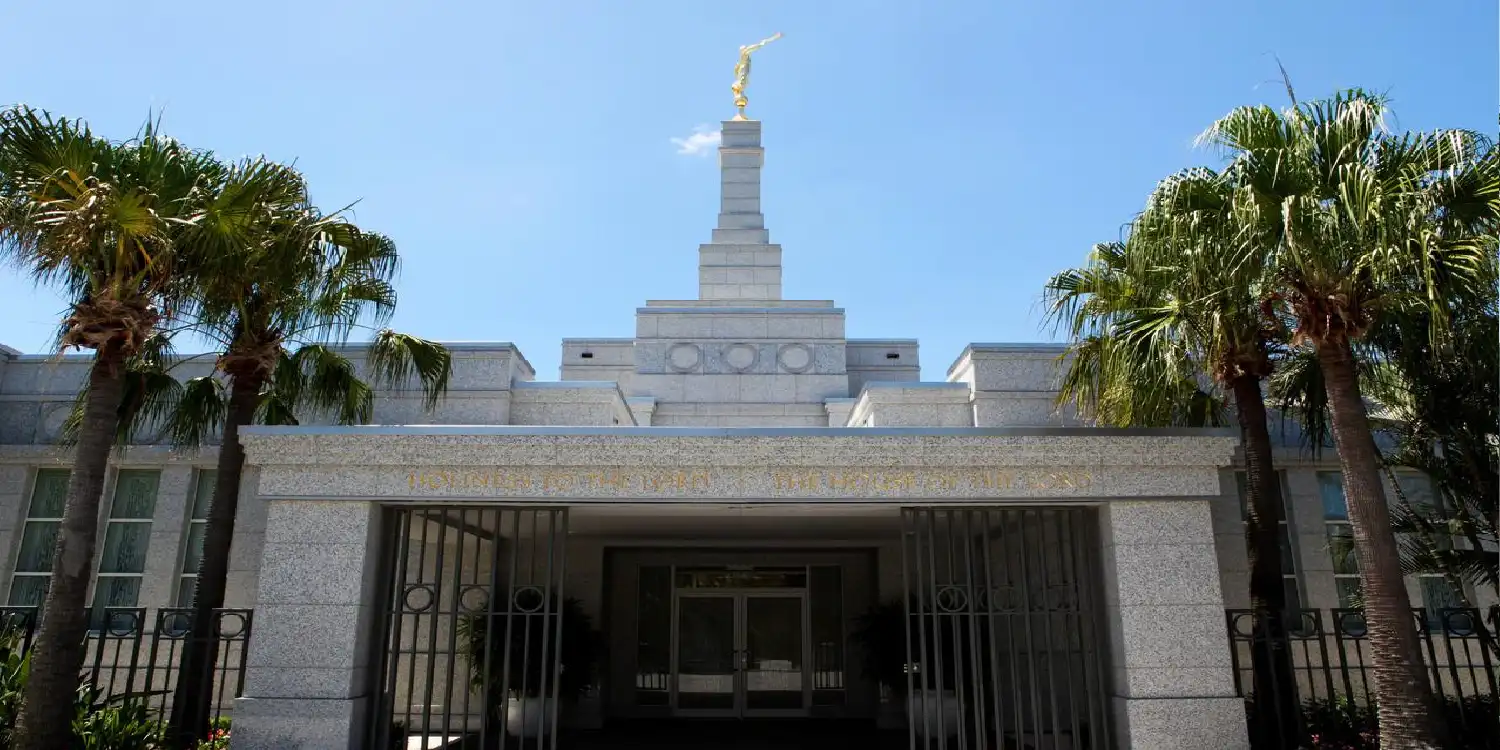
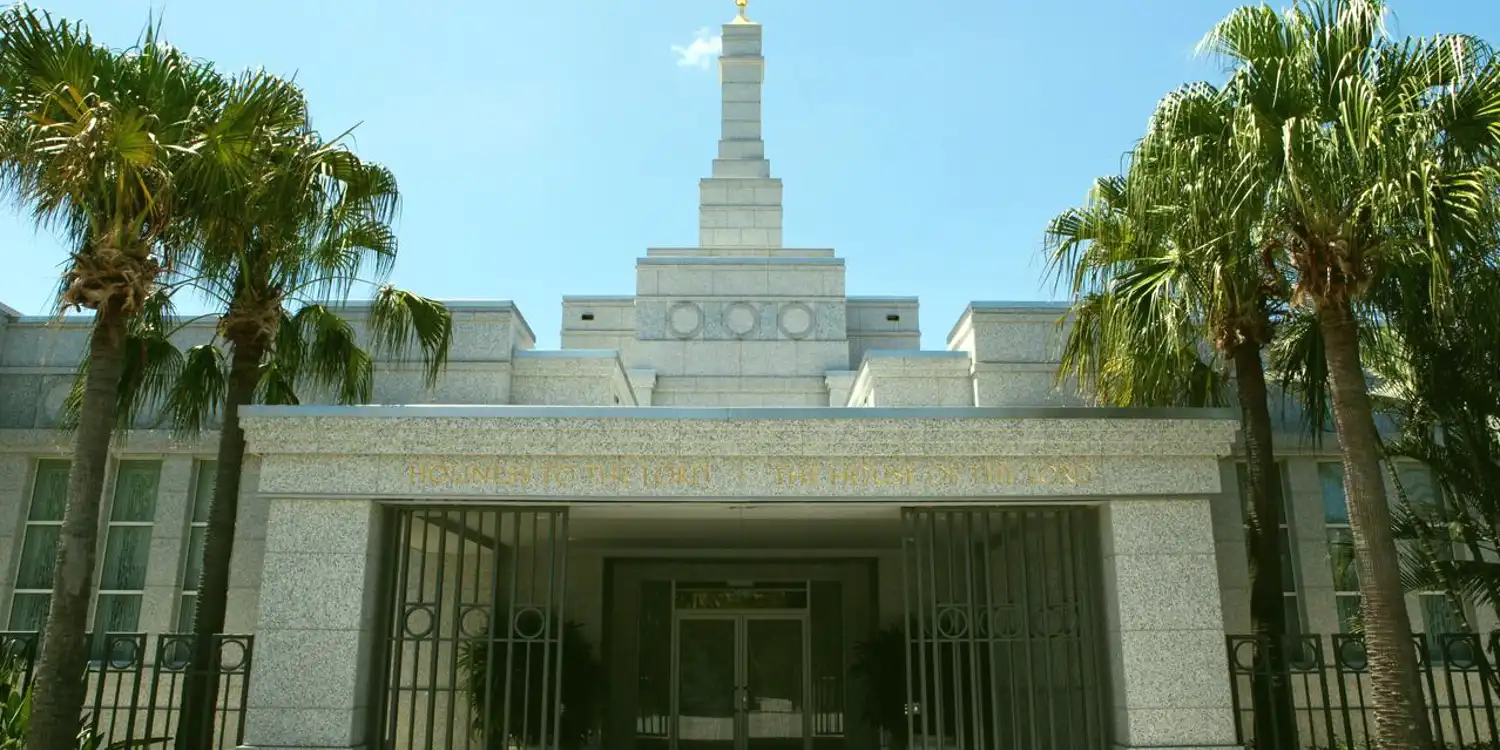
Updated course home, and all site imaages to webp

diff --git a/week03/lazyload.html b/week03/lazyload.html
@@ -19,43 +19,43 @@
         </picture>
         <p>Lorem ipsum dolor sit amet consectetur adipisicing elit. Maiores, ea quasi dolorum repellendus in corrupti minus? Quam blanditiis atque aliquid. Consequatur animi dolores aspernatur! Quasi aut adipisci deserunt modi laboriosam. Eius unde vel, ad ipsam inventore eveniet sed iure ullam nam natus pariatur officiis eos, vitae laudantium possimus culpa fugiat aut laboriosam necessitatibus saepe? At laborum delectus animi est quo, natus earum corrupti pariatur. Illo quasi quod quas fugiat quibusdam quisquam obcaecati repudiandae, reprehenderit tenetur. Facere ipsum consequuntur qui totam adipisci molestias corporis nisi reiciendis. Praesentium, nulla laudantium odio sint dolor impedit itaque quam ad recusandae consequuntur labore neque quos tempore perferendis, rerum perspiciatis doloremque. Numquam excepturi ea doloremque quod, nobis suscipit veniam atque aliquid tempora fugit illum molestias quia voluptas possimus illo rem a eum incidunt voluptates facere placeat quidem tenetur. Voluptatem temporibus inventore quaerat, eaque blanditiis odit mollitia, tempora quas ipsum commodi debitis error ut dolore incidunt atque quam alias quia totam repudiandae perspiciatis excepturi eligendi laborum ipsam doloribus! Numquam quae porro iure magni. Commodi laborum adipisci ipsam quaerat ipsa. Deleniti modi quasi veritatis eum inventore beatae alias similique fugiat voluptatum nulla eos numquam reprehenderit saepe ex doloremque, nobis tempora ipsa unde voluptates, officia sit laborum sint esse. In, amet. Est culpa quod, quidem nisi quibusdam libero accusantium unde at cum, assumenda fugiat eius. Id officiis maiores quae voluptate delectus autem quisquam inventore mollitia fugiat aliquid, repellendus eum, deleniti labore libero laudantium exercitationem beatae amet, veritatis accusamus qui consequatur minima et reprehenderit laborum. Illum suscipit, eos quis ut fugiat voluptate? Incidunt, quidem optio ab possimus officia neque maxime nesciunt quae asperiores commodi consequuntur blanditiis distinctio cumque voluptates accusamus nam earum quos molestiae necessitatibus provident! Nobis officiis asperiores aliquam incidunt ea error provident eum voluptate commodi unde hic quis delectus, harum nulla, minus dolor magni nisi fuga nesciunt ut? Quo, ipsam tenetur. Error esse earum adipisci cumque hic ducimus eaque perferendis dolor repellat, dignissimos, facere corporis odio. Tempore nisi maiores maxime vitae, minima deleniti, atque ex explicabo autem nemo commodi eligendi, praesentium dolorum. Dolorem sed iste dicta ea officia quisquam nulla laudantium sint? Necessitatibus iste, quia tempore mollitia temporibus beatae possimus autem, quis ipsa saepe dignissimos tempora doloribus eos perspiciatis sed ex earum? Sequi excepturi placeat assumenda dicta et. Aperiam, nam at quam necessitatibus atque, corporis ullam fugiat adipisci labore cupiditate doloremque reiciendis ratione ab facilis nemo libero! Harum quaerat ex inventore eligendi eum sequi temporibus ipsam esse, dolorum pariatur eos voluptatum nesciunt perferendis dolores commodi, expedita autem voluptas architecto quo. Doloremque dignissimos quo aperiam eaque? Dolorem quae pariatur explicabo tempore! Atque sunt odio voluptate deserunt itaque optio nobis, sint alias recusandae debitis, incidunt distinctio libero sapiente a enim cumque! Rerum aliquam, sunt natus provident voluptatum quia soluta eos architecto exercitationem, adipisci maiores quasi amet! Beatae inventore, doloremque animi in dolorum itaque aut ab vel laboriosam obcaecati quasi exercitationem aspernatur voluptas nemo cumque corrupti recusandae tempore quam fuga adipisci tempora modi distinctio vero. Esse iste possimus delectus eos exercitationem explicabo eligendi ex repellat, nemo dicta magni modi error quaerat? Quae, voluptas!</p>
         <picture>
-            <img src="images/a (1).jpg" alt="my placeholder" loading="lazy" width="400" height="300">
+            <img src="images/a (1).webp" alt="my placeholder" loading="lazy" width="400" height="300">
         </picture>
         <p>Lorem ipsum dolor sit amet consectetur adipisicing elit. Maiores, ea quasi dolorum repellendus in corrupti minus? Quam blanditiis atque aliquid. Consequatur animi dolores aspernatur! Quasi aut adipisci deserunt modi laboriosam. Eius unde vel, ad ipsam inventore eveniet sed iure ullam nam natus pariatur officiis eos, vitae laudantium possimus culpa fugiat aut laboriosam necessitatibus saepe? At laborum delectus animi est quo, natus earum corrupti pariatur. Illo quasi quod quas fugiat quibusdam quisquam obcaecati repudiandae, reprehenderit tenetur. Facere ipsum consequuntur qui totam adipisci molestias corporis nisi reiciendis. Praesentium, nulla laudantium odio sint dolor impedit itaque quam ad recusandae consequuntur labore neque quos tempore perferendis, rerum perspiciatis doloremque. Numquam excepturi ea doloremque quod, nobis suscipit veniam atque aliquid tempora fugit illum molestias quia voluptas possimus illo rem a eum incidunt voluptates facere placeat quidem tenetur. Voluptatem temporibus inventore quaerat, eaque blanditiis odit mollitia, tempora quas ipsum commodi debitis error ut dolore incidunt atque quam alias quia totam repudiandae perspiciatis excepturi eligendi laborum ipsam doloribus! Numquam quae porro iure magni. Commodi laborum adipisci ipsam quaerat ipsa. Deleniti modi quasi veritatis eum inventore beatae alias similique fugiat voluptatum nulla eos numquam reprehenderit saepe ex doloremque, nobis tempora ipsa unde voluptates, officia sit laborum sint esse. In, amet. Est culpa quod, quidem nisi quibusdam libero accusantium unde at cum, assumenda fugiat eius. Id officiis maiores quae voluptate delectus autem quisquam inventore mollitia fugiat aliquid, repellendus eum, deleniti labore libero laudantium exercitationem beatae amet, veritatis accusamus qui consequatur minima et reprehenderit laborum. Illum suscipit, eos quis ut fugiat voluptate? Incidunt, quidem optio ab possimus officia neque maxime nesciunt quae asperiores commodi consequuntur blanditiis distinctio cumque voluptates accusamus nam earum quos molestiae necessitatibus provident! Nobis officiis asperiores aliquam incidunt ea error provident eum voluptate commodi unde hic quis delectus, harum nulla, minus dolor magni nisi fuga nesciunt ut? Quo, ipsam tenetur. Error esse earum adipisci cumque hic ducimus eaque perferendis dolor repellat, dignissimos, facere corporis odio. Tempore nisi maiores maxime vitae, minima deleniti, atque ex explicabo autem nemo commodi eligendi, praesentium dolorum. Dolorem sed iste dicta ea officia quisquam nulla laudantium sint? Necessitatibus iste, quia tempore mollitia temporibus beatae possimus autem, quis ipsa saepe dignissimos tempora doloribus eos perspiciatis sed ex earum? Sequi excepturi placeat assumenda dicta et. Aperiam, nam at quam necessitatibus atque, corporis ullam fugiat adipisci labore cupiditate doloremque reiciendis ratione ab facilis nemo libero! Harum quaerat ex inventore eligendi eum sequi temporibus ipsam esse, dolorum pariatur eos voluptatum nesciunt perferendis dolores commodi, expedita autem voluptas architecto quo. Doloremque dignissimos quo aperiam eaque? Dolorem quae pariatur explicabo tempore! Atque sunt odio voluptate deserunt itaque optio nobis, sint alias recusandae debitis, incidunt distinctio libero sapiente a enim cumque! Rerum aliquam, sunt natus provident voluptatum quia soluta eos architecto exercitationem, adipisci maiores quasi amet! Beatae inventore, doloremque animi in dolorum itaque aut ab vel laboriosam obcaecati quasi exercitationem aspernatur voluptas nemo cumque corrupti recusandae tempore quam fuga adipisci tempora modi distinctio vero. Esse iste possimus delectus eos exercitationem explicabo eligendi ex repellat, nemo dicta magni modi error quaerat? Quae, voluptas!</p>
         <picture>
-            <img src="images/a (2).jpg" alt="my placeholder" loading="lazy" width="400" height="300">
+            <img src="images/a (2).webp" alt="my placeholder" loading="lazy" width="400" height="300">
         </picture>
         <p>Lorem ipsum dolor sit amet consectetur adipisicing elit. Maiores, ea quasi dolorum repellendus in corrupti minus? Quam blanditiis atque aliquid. Consequatur animi dolores aspernatur! Quasi aut adipisci deserunt modi laboriosam. Eius unde vel, ad ipsam inventore eveniet sed iure ullam nam natus pariatur officiis eos, vitae laudantium possimus culpa fugiat aut laboriosam necessitatibus saepe? At laborum delectus animi est quo, natus earum corrupti pariatur. Illo quasi quod quas fugiat quibusdam quisquam obcaecati repudiandae, reprehenderit tenetur. Facere ipsum consequuntur qui totam adipisci molestias corporis nisi reiciendis. Praesentium, nulla laudantium odio sint dolor impedit itaque quam ad recusandae consequuntur labore neque quos tempore perferendis, rerum perspiciatis doloremque. Numquam excepturi ea doloremque quod, nobis suscipit veniam atque aliquid tempora fugit illum molestias quia voluptas possimus illo rem a eum incidunt voluptates facere placeat quidem tenetur. Voluptatem temporibus inventore quaerat, eaque blanditiis odit mollitia, tempora quas ipsum commodi debitis error ut dolore incidunt atque quam alias quia totam repudiandae perspiciatis excepturi eligendi laborum ipsam doloribus! Numquam quae porro iure magni. Commodi laborum adipisci ipsam quaerat ipsa. Deleniti modi quasi veritatis eum inventore beatae alias similique fugiat voluptatum nulla eos numquam reprehenderit saepe ex doloremque, nobis tempora ipsa unde voluptates, officia sit laborum sint esse. In, amet. Est culpa quod, quidem nisi quibusdam libero accusantium unde at cum, assumenda fugiat eius. Id officiis maiores quae voluptate delectus autem quisquam inventore mollitia fugiat aliquid, repellendus eum, deleniti labore libero laudantium exercitationem beatae amet, veritatis accusamus qui consequatur minima et reprehenderit laborum. Illum suscipit, eos quis ut fugiat voluptate? Incidunt, quidem optio ab possimus officia neque maxime nesciunt quae asperiores commodi consequuntur blanditiis distinctio cumque voluptates accusamus nam earum quos molestiae necessitatibus provident! Nobis officiis asperiores aliquam incidunt ea error provident eum voluptate commodi unde hic quis delectus, harum nulla, minus dolor magni nisi fuga nesciunt ut? Quo, ipsam tenetur. Error esse earum adipisci cumque hic ducimus eaque perferendis dolor repellat, dignissimos, facere corporis odio. Tempore nisi maiores maxime vitae, minima deleniti, atque ex explicabo autem nemo commodi eligendi, praesentium dolorum. Dolorem sed iste dicta ea officia quisquam nulla laudantium sint? Necessitatibus iste, quia tempore mollitia temporibus beatae possimus autem, quis ipsa saepe dignissimos tempora doloribus eos perspiciatis sed ex earum? Sequi excepturi placeat assumenda dicta et. Aperiam, nam at quam necessitatibus atque, corporis ullam fugiat adipisci labore cupiditate doloremque reiciendis ratione ab facilis nemo libero! Harum quaerat ex inventore eligendi eum sequi temporibus ipsam esse, dolorum pariatur eos voluptatum nesciunt perferendis dolores commodi, expedita autem voluptas architecto quo. Doloremque dignissimos quo aperiam eaque? Dolorem quae pariatur explicabo tempore! Atque sunt odio voluptate deserunt itaque optio nobis, sint alias recusandae debitis, incidunt distinctio libero sapiente a enim cumque! Rerum aliquam, sunt natus provident voluptatum quia soluta eos architecto exercitationem, adipisci maiores quasi amet! Beatae inventore, doloremque animi in dolorum itaque aut ab vel laboriosam obcaecati quasi exercitationem aspernatur voluptas nemo cumque corrupti recusandae tempore quam fuga adipisci tempora modi distinctio vero. Esse iste possimus delectus eos exercitationem explicabo eligendi ex repellat, nemo dicta magni modi error quaerat? Quae, voluptas!</p>
         <picture>
-            <img src="images/a (3).jpg" alt="my placeholder" loading="lazy" width="400" height="300">
+            <img src="images/a (3).webp" alt="my placeholder" loading="lazy" width="400" height="300">
         </picture>
         <p>Lorem ipsum dolor sit amet consectetur adipisicing elit. Maiores, ea quasi dolorum repellendus in corrupti minus? Quam blanditiis atque aliquid. Consequatur animi dolores aspernatur! Quasi aut adipisci deserunt modi laboriosam. Eius unde vel, ad ipsam inventore eveniet sed iure ullam nam natus pariatur officiis eos, vitae laudantium possimus culpa fugiat aut laboriosam necessitatibus saepe? At laborum delectus animi est quo, natus earum corrupti pariatur. Illo quasi quod quas fugiat quibusdam quisquam obcaecati repudiandae, reprehenderit tenetur. Facere ipsum consequuntur qui totam adipisci molestias corporis nisi reiciendis. Praesentium, nulla laudantium odio sint dolor impedit itaque quam ad recusandae consequuntur labore neque quos tempore perferendis, rerum perspiciatis doloremque. Numquam excepturi ea doloremque quod, nobis suscipit veniam atque aliquid tempora fugit illum molestias quia voluptas possimus illo rem a eum incidunt voluptates facere placeat quidem tenetur. Voluptatem temporibus inventore quaerat, eaque blanditiis odit mollitia, tempora quas ipsum commodi debitis error ut dolore incidunt atque quam alias quia totam repudiandae perspiciatis excepturi eligendi laborum ipsam doloribus! Numquam quae porro iure magni. Commodi laborum adipisci ipsam quaerat ipsa. Deleniti modi quasi veritatis eum inventore beatae alias similique fugiat voluptatum nulla eos numquam reprehenderit saepe ex doloremque, nobis tempora ipsa unde voluptates, officia sit laborum sint esse. In, amet. Est culpa quod, quidem nisi quibusdam libero accusantium unde at cum, assumenda fugiat eius. Id officiis maiores quae voluptate delectus autem quisquam inventore mollitia fugiat aliquid, repellendus eum, deleniti labore libero laudantium exercitationem beatae amet, veritatis accusamus qui consequatur minima et reprehenderit laborum. Illum suscipit, eos quis ut fugiat voluptate? Incidunt, quidem optio ab possimus officia neque maxime nesciunt quae asperiores commodi consequuntur blanditiis distinctio cumque voluptates accusamus nam earum quos molestiae necessitatibus provident! Nobis officiis asperiores aliquam incidunt ea error provident eum voluptate commodi unde hic quis delectus, harum nulla, minus dolor magni nisi fuga nesciunt ut? Quo, ipsam tenetur. Error esse earum adipisci cumque hic ducimus eaque perferendis dolor repellat, dignissimos, facere corporis odio. Tempore nisi maiores maxime vitae, minima deleniti, atque ex explicabo autem nemo commodi eligendi, praesentium dolorum. Dolorem sed iste dicta ea officia quisquam nulla laudantium sint? Necessitatibus iste, quia tempore mollitia temporibus beatae possimus autem, quis ipsa saepe dignissimos tempora doloribus eos perspiciatis sed ex earum? Sequi excepturi placeat assumenda dicta et. Aperiam, nam at quam necessitatibus atque, corporis ullam fugiat adipisci labore cupiditate doloremque reiciendis ratione ab facilis nemo libero! Harum quaerat ex inventore eligendi eum sequi temporibus ipsam esse, dolorum pariatur eos voluptatum nesciunt perferendis dolores commodi, expedita autem voluptas architecto quo. Doloremque dignissimos quo aperiam eaque? Dolorem quae pariatur explicabo tempore! Atque sunt odio voluptate deserunt itaque optio nobis, sint alias recusandae debitis, incidunt distinctio libero sapiente a enim cumque! Rerum aliquam, sunt natus provident voluptatum quia soluta eos architecto exercitationem, adipisci maiores quasi amet! Beatae inventore, doloremque animi in dolorum itaque aut ab vel laboriosam obcaecati quasi exercitationem aspernatur voluptas nemo cumque corrupti recusandae tempore quam fuga adipisci tempora modi distinctio vero. Esse iste possimus delectus eos exercitationem explicabo eligendi ex repellat, nemo dicta magni modi error quaerat? Quae, voluptas!</p>
         <picture>
-            <img src="images/a (4).jpg" alt="my placeholder" loading="lazy" width="400" height="300">
+            <img src="images/a (4).webp" alt="my placeholder" loading="lazy" width="400" height="300">
         </picture>
         <p>Lorem ipsum dolor sit amet consectetur adipisicing elit. Maiores, ea quasi dolorum repellendus in corrupti minus? Quam blanditiis atque aliquid. Consequatur animi dolores aspernatur! Quasi aut adipisci deserunt modi laboriosam. Eius unde vel, ad ipsam inventore eveniet sed iure ullam nam natus pariatur officiis eos, vitae laudantium possimus culpa fugiat aut laboriosam necessitatibus saepe? At laborum delectus animi est quo, natus earum corrupti pariatur. Illo quasi quod quas fugiat quibusdam quisquam obcaecati repudiandae, reprehenderit tenetur. Facere ipsum consequuntur qui totam adipisci molestias corporis nisi reiciendis. Praesentium, nulla laudantium odio sint dolor impedit itaque quam ad recusandae consequuntur labore neque quos tempore perferendis, rerum perspiciatis doloremque. Numquam excepturi ea doloremque quod, nobis suscipit veniam atque aliquid tempora fugit illum molestias quia voluptas possimus illo rem a eum incidunt voluptates facere placeat quidem tenetur. Voluptatem temporibus inventore quaerat, eaque blanditiis odit mollitia, tempora quas ipsum commodi debitis error ut dolore incidunt atque quam alias quia totam repudiandae perspiciatis excepturi eligendi laborum ipsam doloribus! Numquam quae porro iure magni. Commodi laborum adipisci ipsam quaerat ipsa. Deleniti modi quasi veritatis eum inventore beatae alias similique fugiat voluptatum nulla eos numquam reprehenderit saepe ex doloremque, nobis tempora ipsa unde voluptates, officia sit laborum sint esse. In, amet. Est culpa quod, quidem nisi quibusdam libero accusantium unde at cum, assumenda fugiat eius. Id officiis maiores quae voluptate delectus autem quisquam inventore mollitia fugiat aliquid, repellendus eum, deleniti labore libero laudantium exercitationem beatae amet, veritatis accusamus qui consequatur minima et reprehenderit laborum. Illum suscipit, eos quis ut fugiat voluptate? Incidunt, quidem optio ab possimus officia neque maxime nesciunt quae asperiores commodi consequuntur blanditiis distinctio cumque voluptates accusamus nam earum quos molestiae necessitatibus provident! Nobis officiis asperiores aliquam incidunt ea error provident eum voluptate commodi unde hic quis delectus, harum nulla, minus dolor magni nisi fuga nesciunt ut? Quo, ipsam tenetur. Error esse earum adipisci cumque hic ducimus eaque perferendis dolor repellat, dignissimos, facere corporis odio. Tempore nisi maiores maxime vitae, minima deleniti, atque ex explicabo autem nemo commodi eligendi, praesentium dolorum. Dolorem sed iste dicta ea officia quisquam nulla laudantium sint? Necessitatibus iste, quia tempore mollitia temporibus beatae possimus autem, quis ipsa saepe dignissimos tempora doloribus eos perspiciatis sed ex earum? Sequi excepturi placeat assumenda dicta et. Aperiam, nam at quam necessitatibus atque, corporis ullam fugiat adipisci labore cupiditate doloremque reiciendis ratione ab facilis nemo libero! Harum quaerat ex inventore eligendi eum sequi temporibus ipsam esse, dolorum pariatur eos voluptatum nesciunt perferendis dolores commodi, expedita autem voluptas architecto quo. Doloremque dignissimos quo aperiam eaque? Dolorem quae pariatur explicabo tempore! Atque sunt odio voluptate deserunt itaque optio nobis, sint alias recusandae debitis, incidunt distinctio libero sapiente a enim cumque! Rerum aliquam, sunt natus provident voluptatum quia soluta eos architecto exercitationem, adipisci maiores quasi amet! Beatae inventore, doloremque animi in dolorum itaque aut ab vel laboriosam obcaecati quasi exercitationem aspernatur voluptas nemo cumque corrupti recusandae tempore quam fuga adipisci tempora modi distinctio vero. Esse iste possimus delectus eos exercitationem explicabo eligendi ex repellat, nemo dicta magni modi error quaerat? Quae, voluptas!</p>
         <picture>
-            <img src="images/a (5).jpg" alt="my placeholder" loading="lazy" width="400" height="300">
+            <img src="images/a (5).webp" alt="my placeholder" loading="lazy" width="400" height="300">
         </picture>
         <p>Lorem ipsum dolor sit amet consectetur adipisicing elit. Maiores, ea quasi dolorum repellendus in corrupti minus? Quam blanditiis atque aliquid. Consequatur animi dolores aspernatur! Quasi aut adipisci deserunt modi laboriosam. Eius unde vel, ad ipsam inventore eveniet sed iure ullam nam natus pariatur officiis eos, vitae laudantium possimus culpa fugiat aut laboriosam necessitatibus saepe? At laborum delectus animi est quo, natus earum corrupti pariatur. Illo quasi quod quas fugiat quibusdam quisquam obcaecati repudiandae, reprehenderit tenetur. Facere ipsum consequuntur qui totam adipisci molestias corporis nisi reiciendis. Praesentium, nulla laudantium odio sint dolor impedit itaque quam ad recusandae consequuntur labore neque quos tempore perferendis, rerum perspiciatis doloremque. Numquam excepturi ea doloremque quod, nobis suscipit veniam atque aliquid tempora fugit illum molestias quia voluptas possimus illo rem a eum incidunt voluptates facere placeat quidem tenetur. Voluptatem temporibus inventore quaerat, eaque blanditiis odit mollitia, tempora quas ipsum commodi debitis error ut dolore incidunt atque quam alias quia totam repudiandae perspiciatis excepturi eligendi laborum ipsam doloribus! Numquam quae porro iure magni. Commodi laborum adipisci ipsam quaerat ipsa. Deleniti modi quasi veritatis eum inventore beatae alias similique fugiat voluptatum nulla eos numquam reprehenderit saepe ex doloremque, nobis tempora ipsa unde voluptates, officia sit laborum sint esse. In, amet. Est culpa quod, quidem nisi quibusdam libero accusantium unde at cum, assumenda fugiat eius. Id officiis maiores quae voluptate delectus autem quisquam inventore mollitia fugiat aliquid, repellendus eum, deleniti labore libero laudantium exercitationem beatae amet, veritatis accusamus qui consequatur minima et reprehenderit laborum. Illum suscipit, eos quis ut fugiat voluptate? Incidunt, quidem optio ab possimus officia neque maxime nesciunt quae asperiores commodi consequuntur blanditiis distinctio cumque voluptates accusamus nam earum quos molestiae necessitatibus provident! Nobis officiis asperiores aliquam incidunt ea error provident eum voluptate commodi unde hic quis delectus, harum nulla, minus dolor magni nisi fuga nesciunt ut? Quo, ipsam tenetur. Error esse earum adipisci cumque hic ducimus eaque perferendis dolor repellat, dignissimos, facere corporis odio. Tempore nisi maiores maxime vitae, minima deleniti, atque ex explicabo autem nemo commodi eligendi, praesentium dolorum. Dolorem sed iste dicta ea officia quisquam nulla laudantium sint? Necessitatibus iste, quia tempore mollitia temporibus beatae possimus autem, quis ipsa saepe dignissimos tempora doloribus eos perspiciatis sed ex earum? Sequi excepturi placeat assumenda dicta et. Aperiam, nam at quam necessitatibus atque, corporis ullam fugiat adipisci labore cupiditate doloremque reiciendis ratione ab facilis nemo libero! Harum quaerat ex inventore eligendi eum sequi temporibus ipsam esse, dolorum pariatur eos voluptatum nesciunt perferendis dolores commodi, expedita autem voluptas architecto quo. Doloremque dignissimos quo aperiam eaque? Dolorem quae pariatur explicabo tempore! Atque sunt odio voluptate deserunt itaque optio nobis, sint alias recusandae debitis, incidunt distinctio libero sapiente a enim cumque! Rerum aliquam, sunt natus provident voluptatum quia soluta eos architecto exercitationem, adipisci maiores quasi amet! Beatae inventore, doloremque animi in dolorum itaque aut ab vel laboriosam obcaecati quasi exercitationem aspernatur voluptas nemo cumque corrupti recusandae tempore quam fuga adipisci tempora modi distinctio vero. Esse iste possimus delectus eos exercitationem explicabo eligendi ex repellat, nemo dicta magni modi error quaerat? Quae, voluptas!</p>
         <picture>
-            <img src="images/a (6).jpg" alt="my placeholder" loading="lazy" width="400" height="300">
+            <img src="images/a (6).webp" alt="my placeholder" loading="lazy" width="400" height="300">
         </picture>
         <p>Lorem ipsum dolor sit amet consectetur adipisicing elit. Maiores, ea quasi dolorum repellendus in corrupti minus? Quam blanditiis atque aliquid. Consequatur animi dolores aspernatur! Quasi aut adipisci deserunt modi laboriosam. Eius unde vel, ad ipsam inventore eveniet sed iure ullam nam natus pariatur officiis eos, vitae laudantium possimus culpa fugiat aut laboriosam necessitatibus saepe? At laborum delectus animi est quo, natus earum corrupti pariatur. Illo quasi quod quas fugiat quibusdam quisquam obcaecati repudiandae, reprehenderit tenetur. Facere ipsum consequuntur qui totam adipisci molestias corporis nisi reiciendis. Praesentium, nulla laudantium odio sint dolor impedit itaque quam ad recusandae consequuntur labore neque quos tempore perferendis, rerum perspiciatis doloremque. Numquam excepturi ea doloremque quod, nobis suscipit veniam atque aliquid tempora fugit illum molestias quia voluptas possimus illo rem a eum incidunt voluptates facere placeat quidem tenetur. Voluptatem temporibus inventore quaerat, eaque blanditiis odit mollitia, tempora quas ipsum commodi debitis error ut dolore incidunt atque quam alias quia totam repudiandae perspiciatis excepturi eligendi laborum ipsam doloribus! Numquam quae porro iure magni. Commodi laborum adipisci ipsam quaerat ipsa. Deleniti modi quasi veritatis eum inventore beatae alias similique fugiat voluptatum nulla eos numquam reprehenderit saepe ex doloremque, nobis tempora ipsa unde voluptates, officia sit laborum sint esse. In, amet. Est culpa quod, quidem nisi quibusdam libero accusantium unde at cum, assumenda fugiat eius. Id officiis maiores quae voluptate delectus autem quisquam inventore mollitia fugiat aliquid, repellendus eum, deleniti labore libero laudantium exercitationem beatae amet, veritatis accusamus qui consequatur minima et reprehenderit laborum. Illum suscipit, eos quis ut fugiat voluptate? Incidunt, quidem optio ab possimus officia neque maxime nesciunt quae asperiores commodi consequuntur blanditiis distinctio cumque voluptates accusamus nam earum quos molestiae necessitatibus provident! Nobis officiis asperiores aliquam incidunt ea error provident eum voluptate commodi unde hic quis delectus, harum nulla, minus dolor magni nisi fuga nesciunt ut? Quo, ipsam tenetur. Error esse earum adipisci cumque hic ducimus eaque perferendis dolor repellat, dignissimos, facere corporis odio. Tempore nisi maiores maxime vitae, minima deleniti, atque ex explicabo autem nemo commodi eligendi, praesentium dolorum. Dolorem sed iste dicta ea officia quisquam nulla laudantium sint? Necessitatibus iste, quia tempore mollitia temporibus beatae possimus autem, quis ipsa saepe dignissimos tempora doloribus eos perspiciatis sed ex earum? Sequi excepturi placeat assumenda dicta et. Aperiam, nam at quam necessitatibus atque, corporis ullam fugiat adipisci labore cupiditate doloremque reiciendis ratione ab facilis nemo libero! Harum quaerat ex inventore eligendi eum sequi temporibus ipsam esse, dolorum pariatur eos voluptatum nesciunt perferendis dolores commodi, expedita autem voluptas architecto quo. Doloremque dignissimos quo aperiam eaque? Dolorem quae pariatur explicabo tempore! Atque sunt odio voluptate deserunt itaque optio nobis, sint alias recusandae debitis, incidunt distinctio libero sapiente a enim cumque! Rerum aliquam, sunt natus provident voluptatum quia soluta eos architecto exercitationem, adipisci maiores quasi amet! Beatae inventore, doloremque animi in dolorum itaque aut ab vel laboriosam obcaecati quasi exercitationem aspernatur voluptas nemo cumque corrupti recusandae tempore quam fuga adipisci tempora modi distinctio vero. Esse iste possimus delectus eos exercitationem explicabo eligendi ex repellat, nemo dicta magni modi error quaerat? Quae, voluptas!</p>
         <picture>
-            <img src="images/a (7).jpg" alt="my placeholder" loading="lazy" width="400" height="300">
+            <img src="images/a (7).webp" alt="my placeholder" loading="lazy" width="400" height="300">
         </picture>
         <p>Lorem ipsum dolor sit amet consectetur adipisicing elit. Maiores, ea quasi dolorum repellendus in corrupti minus? Quam blanditiis atque aliquid. Consequatur animi dolores aspernatur! Quasi aut adipisci deserunt modi laboriosam. Eius unde vel, ad ipsam inventore eveniet sed iure ullam nam natus pariatur officiis eos, vitae laudantium possimus culpa fugiat aut laboriosam necessitatibus saepe? At laborum delectus animi est quo, natus earum corrupti pariatur. Illo quasi quod quas fugiat quibusdam quisquam obcaecati repudiandae, reprehenderit tenetur. Facere ipsum consequuntur qui totam adipisci molestias corporis nisi reiciendis. Praesentium, nulla laudantium odio sint dolor impedit itaque quam ad recusandae consequuntur labore neque quos tempore perferendis, rerum perspiciatis doloremque. Numquam excepturi ea doloremque quod, nobis suscipit veniam atque aliquid tempora fugit illum molestias quia voluptas possimus illo rem a eum incidunt voluptates facere placeat quidem tenetur. Voluptatem temporibus inventore quaerat, eaque blanditiis odit mollitia, tempora quas ipsum commodi debitis error ut dolore incidunt atque quam alias quia totam repudiandae perspiciatis excepturi eligendi laborum ipsam doloribus! Numquam quae porro iure magni. Commodi laborum adipisci ipsam quaerat ipsa. Deleniti modi quasi veritatis eum inventore beatae alias similique fugiat voluptatum nulla eos numquam reprehenderit saepe ex doloremque, nobis tempora ipsa unde voluptates, officia sit laborum sint esse. In, amet. Est culpa quod, quidem nisi quibusdam libero accusantium unde at cum, assumenda fugiat eius. Id officiis maiores quae voluptate delectus autem quisquam inventore mollitia fugiat aliquid, repellendus eum, deleniti labore libero laudantium exercitationem beatae amet, veritatis accusamus qui consequatur minima et reprehenderit laborum. Illum suscipit, eos quis ut fugiat voluptate? Incidunt, quidem optio ab possimus officia neque maxime nesciunt quae asperiores commodi consequuntur blanditiis distinctio cumque voluptates accusamus nam earum quos molestiae necessitatibus provident! Nobis officiis asperiores aliquam incidunt ea error provident eum voluptate commodi unde hic quis delectus, harum nulla, minus dolor magni nisi fuga nesciunt ut? Quo, ipsam tenetur. Error esse earum adipisci cumque hic ducimus eaque perferendis dolor repellat, dignissimos, facere corporis odio. Tempore nisi maiores maxime vitae, minima deleniti, atque ex explicabo autem nemo commodi eligendi, praesentium dolorum. Dolorem sed iste dicta ea officia quisquam nulla laudantium sint? Necessitatibus iste, quia tempore mollitia temporibus beatae possimus autem, quis ipsa saepe dignissimos tempora doloribus eos perspiciatis sed ex earum? Sequi excepturi placeat assumenda dicta et. Aperiam, nam at quam necessitatibus atque, corporis ullam fugiat adipisci labore cupiditate doloremque reiciendis ratione ab facilis nemo libero! Harum quaerat ex inventore eligendi eum sequi temporibus ipsam esse, dolorum pariatur eos voluptatum nesciunt perferendis dolores commodi, expedita autem voluptas architecto quo. Doloremque dignissimos quo aperiam eaque? Dolorem quae pariatur explicabo tempore! Atque sunt odio voluptate deserunt itaque optio nobis, sint alias recusandae debitis, incidunt distinctio libero sapiente a enim cumque! Rerum aliquam, sunt natus provident voluptatum quia soluta eos architecto exercitationem, adipisci maiores quasi amet! Beatae inventore, doloremque animi in dolorum itaque aut ab vel laboriosam obcaecati quasi exercitationem aspernatur voluptas nemo cumque corrupti recusandae tempore quam fuga adipisci tempora modi distinctio vero. Esse iste possimus delectus eos exercitationem explicabo eligendi ex repellat, nemo dicta magni modi error quaerat? Quae, voluptas!</p>
         <picture>
-            <img src="images/a (8).jpg" alt="my placeholder" loading="lazy" width="400" height="300">
+            <img src="images/a (8).webp" alt="my placeholder" loading="lazy" width="400" height="300">
         </picture>
         <p>Lorem ipsum dolor sit amet consectetur adipisicing elit. Maiores, ea quasi dolorum repellendus in corrupti minus? Quam blanditiis atque aliquid. Consequatur animi dolores aspernatur! Quasi aut adipisci deserunt modi laboriosam. Eius unde vel, ad ipsam inventore eveniet sed iure ullam nam natus pariatur officiis eos, vitae laudantium possimus culpa fugiat aut laboriosam necessitatibus saepe? At laborum delectus animi est quo, natus earum corrupti pariatur. Illo quasi quod quas fugiat quibusdam quisquam obcaecati repudiandae, reprehenderit tenetur. Facere ipsum consequuntur qui totam adipisci molestias corporis nisi reiciendis. Praesentium, nulla laudantium odio sint dolor impedit itaque quam ad recusandae consequuntur labore neque quos tempore perferendis, rerum perspiciatis doloremque. Numquam excepturi ea doloremque quod, nobis suscipit veniam atque aliquid tempora fugit illum molestias quia voluptas possimus illo rem a eum incidunt voluptates facere placeat quidem tenetur. Voluptatem temporibus inventore quaerat, eaque blanditiis odit mollitia, tempora quas ipsum commodi debitis error ut dolore incidunt atque quam alias quia totam repudiandae perspiciatis excepturi eligendi laborum ipsam doloribus! Numquam quae porro iure magni. Commodi laborum adipisci ipsam quaerat ipsa. Deleniti modi quasi veritatis eum inventore beatae alias similique fugiat voluptatum nulla eos numquam reprehenderit saepe ex doloremque, nobis tempora ipsa unde voluptates, officia sit laborum sint esse. In, amet. Est culpa quod, quidem nisi quibusdam libero accusantium unde at cum, assumenda fugiat eius. Id officiis maiores quae voluptate delectus autem quisquam inventore mollitia fugiat aliquid, repellendus eum, deleniti labore libero laudantium exercitationem beatae amet, veritatis accusamus qui consequatur minima et reprehenderit laborum. Illum suscipit, eos quis ut fugiat voluptate? Incidunt, quidem optio ab possimus officia neque maxime nesciunt quae asperiores commodi consequuntur blanditiis distinctio cumque voluptates accusamus nam earum quos molestiae necessitatibus provident! Nobis officiis asperiores aliquam incidunt ea error provident eum voluptate commodi unde hic quis delectus, harum nulla, minus dolor magni nisi fuga nesciunt ut? Quo, ipsam tenetur. Error esse earum adipisci cumque hic ducimus eaque perferendis dolor repellat, dignissimos, facere corporis odio. Tempore nisi maiores maxime vitae, minima deleniti, atque ex explicabo autem nemo commodi eligendi, praesentium dolorum. Dolorem sed iste dicta ea officia quisquam nulla laudantium sint? Necessitatibus iste, quia tempore mollitia temporibus beatae possimus autem, quis ipsa saepe dignissimos tempora doloribus eos perspiciatis sed ex earum? Sequi excepturi placeat assumenda dicta et. Aperiam, nam at quam necessitatibus atque, corporis ullam fugiat adipisci labore cupiditate doloremque reiciendis ratione ab facilis nemo libero! Harum quaerat ex inventore eligendi eum sequi temporibus ipsam esse, dolorum pariatur eos voluptatum nesciunt perferendis dolores commodi, expedita autem voluptas architecto quo. Doloremque dignissimos quo aperiam eaque? Dolorem quae pariatur explicabo tempore! Atque sunt odio voluptate deserunt itaque optio nobis, sint alias recusandae debitis, incidunt distinctio libero sapiente a enim cumque! Rerum aliquam, sunt natus provident voluptatum quia soluta eos architecto exercitationem, adipisci maiores quasi amet! Beatae inventore, doloremque animi in dolorum itaque aut ab vel laboriosam obcaecati quasi exercitationem aspernatur voluptas nemo cumque corrupti recusandae tempore quam fuga adipisci tempora modi distinctio vero. Esse iste possimus delectus eos exercitationem explicabo eligendi ex repellat, nemo dicta magni modi error quaerat? Quae, voluptas!</p>
         <picture>
-            <img src="images/a (9).jpg" alt="my placeholder" loading="lazy" width="400" height="300">
+            <img src="images/a (9).webp" alt="my placeholder" loading="lazy" width="400" height="300">
         </picture>
         <p>Lorem ipsum dolor sit amet consectetur adipisicing elit. Maiores, ea quasi dolorum repellendus in corrupti minus? Quam blanditiis atque aliquid. Consequatur animi dolores aspernatur! Quasi aut adipisci deserunt modi laboriosam. Eius unde vel, ad ipsam inventore eveniet sed iure ullam nam natus pariatur officiis eos, vitae laudantium possimus culpa fugiat aut laboriosam necessitatibus saepe? At laborum delectus animi est quo, natus earum corrupti pariatur. Illo quasi quod quas fugiat quibusdam quisquam obcaecati repudiandae, reprehenderit tenetur. Facere ipsum consequuntur qui totam adipisci molestias corporis nisi reiciendis. Praesentium, nulla laudantium odio sint dolor impedit itaque quam ad recusandae consequuntur labore neque quos tempore perferendis, rerum perspiciatis doloremque. Numquam excepturi ea doloremque quod, nobis suscipit veniam atque aliquid tempora fugit illum molestias quia voluptas possimus illo rem a eum incidunt voluptates facere placeat quidem tenetur. Voluptatem temporibus inventore quaerat, eaque blanditiis odit mollitia, tempora quas ipsum commodi debitis error ut dolore incidunt atque quam alias quia totam repudiandae perspiciatis excepturi eligendi laborum ipsam doloribus! Numquam quae porro iure magni. Commodi laborum adipisci ipsam quaerat ipsa. Deleniti modi quasi veritatis eum inventore beatae alias similique fugiat voluptatum nulla eos numquam reprehenderit saepe ex doloremque, nobis tempora ipsa unde voluptates, officia sit laborum sint esse. In, amet. Est culpa quod, quidem nisi quibusdam libero accusantium unde at cum, assumenda fugiat eius. Id officiis maiores quae voluptate delectus autem quisquam inventore mollitia fugiat aliquid, repellendus eum, deleniti labore libero laudantium exercitationem beatae amet, veritatis accusamus qui consequatur minima et reprehenderit laborum. Illum suscipit, eos quis ut fugiat voluptate? Incidunt, quidem optio ab possimus officia neque maxime nesciunt quae asperiores commodi consequuntur blanditiis distinctio cumque voluptates accusamus nam earum quos molestiae necessitatibus provident! Nobis officiis asperiores aliquam incidunt ea error provident eum voluptate commodi unde hic quis delectus, harum nulla, minus dolor magni nisi fuga nesciunt ut? Quo, ipsam tenetur. Error esse earum adipisci cumque hic ducimus eaque perferendis dolor repellat, dignissimos, facere corporis odio. Tempore nisi maiores maxime vitae, minima deleniti, atque ex explicabo autem nemo commodi eligendi, praesentium dolorum. Dolorem sed iste dicta ea officia quisquam nulla laudantium sint? Necessitatibus iste, quia tempore mollitia temporibus beatae possimus autem, quis ipsa saepe dignissimos tempora doloribus eos perspiciatis sed ex earum? Sequi excepturi placeat assumenda dicta et. Aperiam, nam at quam necessitatibus atque, corporis ullam fugiat adipisci labore cupiditate doloremque reiciendis ratione ab facilis nemo libero! Harum quaerat ex inventore eligendi eum sequi temporibus ipsam esse, dolorum pariatur eos voluptatum nesciunt perferendis dolores commodi, expedita autem voluptas architecto quo. Doloremque dignissimos quo aperiam eaque? Dolorem quae pariatur explicabo tempore! Atque sunt odio voluptate deserunt itaque optio nobis, sint alias recusandae debitis, incidunt distinctio libero sapiente a enim cumque! Rerum aliquam, sunt natus provident voluptatum quia soluta eos architecto exercitationem, adipisci maiores quasi amet! Beatae inventore, doloremque animi in dolorum itaque aut ab vel laboriosam obcaecati quasi exercitationem aspernatur voluptas nemo cumque corrupti recusandae tempore quam fuga adipisci tempora modi distinctio vero. Esse iste possimus delectus eos exercitationem explicabo eligendi ex repellat, nemo dicta magni modi error quaerat? Quae, voluptas!</p>
         <picture>
-            <img src="images/a (10).jpg" alt="my placeholder" loading="lazy" width="400" height="300">
+            <img src="images/a (10).webp" alt="my placeholder" loading="lazy" width="400" height="300">
         </picture>
         <p>Lorem ipsum dolor sit amet consectetur adipisicing elit. Maiores, ea quasi dolorum repellendus in corrupti minus? Quam blanditiis atque aliquid. Consequatur animi dolores aspernatur! Quasi aut adipisci deserunt modi laboriosam. Eius unde vel, ad ipsam inventore eveniet sed iure ullam nam natus pariatur officiis eos, vitae laudantium possimus culpa fugiat aut laboriosam necessitatibus saepe? At laborum delectus animi est quo, natus earum corrupti pariatur. Illo quasi quod quas fugiat quibusdam quisquam obcaecati repudiandae, reprehenderit tenetur. Facere ipsum consequuntur qui totam adipisci molestias corporis nisi reiciendis. Praesentium, nulla laudantium odio sint dolor impedit itaque quam ad recusandae consequuntur labore neque quos tempore perferendis, rerum perspiciatis doloremque. Numquam excepturi ea doloremque quod, nobis suscipit veniam atque aliquid tempora fugit illum molestias quia voluptas possimus illo rem a eum incidunt voluptates facere placeat quidem tenetur. Voluptatem temporibus inventore quaerat, eaque blanditiis odit mollitia, tempora quas ipsum commodi debitis error ut dolore incidunt atque quam alias quia totam repudiandae perspiciatis excepturi eligendi laborum ipsam doloribus! Numquam quae porro iure magni. Commodi laborum adipisci ipsam quaerat ipsa. Deleniti modi quasi veritatis eum inventore beatae alias similique fugiat voluptatum nulla eos numquam reprehenderit saepe ex doloremque, nobis tempora ipsa unde voluptates, officia sit laborum sint esse. In, amet. Est culpa quod, quidem nisi quibusdam libero accusantium unde at cum, assumenda fugiat eius. Id officiis maiores quae voluptate delectus autem quisquam inventore mollitia fugiat aliquid, repellendus eum, deleniti labore libero laudantium exercitationem beatae amet, veritatis accusamus qui consequatur minima et reprehenderit laborum. Illum suscipit, eos quis ut fugiat voluptate? Incidunt, quidem optio ab possimus officia neque maxime nesciunt quae asperiores commodi consequuntur blanditiis distinctio cumque voluptates accusamus nam earum quos molestiae necessitatibus provident! Nobis officiis asperiores aliquam incidunt ea error provident eum voluptate commodi unde hic quis delectus, harum nulla, minus dolor magni nisi fuga nesciunt ut? Quo, ipsam tenetur. Error esse earum adipisci cumque hic ducimus eaque perferendis dolor repellat, dignissimos, facere corporis odio. Tempore nisi maiores maxime vitae, minima deleniti, atque ex explicabo autem nemo commodi eligendi, praesentium dolorum. Dolorem sed iste dicta ea officia quisquam nulla laudantium sint? Necessitatibus iste, quia tempore mollitia temporibus beatae possimus autem, quis ipsa saepe dignissimos tempora doloribus eos perspiciatis sed ex earum? Sequi excepturi placeat assumenda dicta et. Aperiam, nam at quam necessitatibus atque, corporis ullam fugiat adipisci labore cupiditate doloremque reiciendis ratione ab facilis nemo libero! Harum quaerat ex inventore eligendi eum sequi temporibus ipsam esse, dolorum pariatur eos voluptatum nesciunt perferendis dolores commodi, expedita autem voluptas architecto quo. Doloremque dignissimos quo aperiam eaque? Dolorem quae pariatur explicabo tempore! Atque sunt odio voluptate deserunt itaque optio nobis, sint alias recusandae debitis, incidunt distinctio libero sapiente a enim cumque! Rerum aliquam, sunt natus provident voluptatum quia soluta eos architecto exercitationem, adipisci maiores quasi amet! Beatae inventore, doloremque animi in dolorum itaque aut ab vel laboriosam obcaecati quasi exercitationem aspernatur voluptas nemo cumque corrupti recusandae tempore quam fuga adipisci tempora modi distinctio vero. Esse iste possimus delectus eos exercitationem explicabo eligendi ex repellat, nemo dicta magni modi error quaerat? Quae, voluptas!</p>
     </main>

diff --git a/index.html b/index.html
@@ -27,7 +27,7 @@
 <body>
     <header>
         <div class="head">
-            <img src="images/profile.webp" width="90" height="auto" alt="Moffat Katopola profile picture">
+            <img src="images/profile.webp" width="90" alt="Moffat Katopola profile picture">
             <span>Moffat Katopola</span>
         </div>
         <nav>
@@ -43,7 +43,7 @@
 
     </header>
     <picture class="hero">
-        <source srcset="images/hero-small.webp" media="(max-width: 600px)" width="400px" height="250px">
+        <source srcset="images/hero-small.webp" media="(max-width: 600px)" width="400" height="250">
         <source srcset="images/hero-large.webp" media="(max-width: 960px)">
         <img src="images/hero.webp" alt="Durban SouthAfrica Temple">
     </picture>
@@ -87,7 +87,6 @@
         src="https://www.google.com/maps/embed?pb=!1m10!1m8!1m3!1d5305.79491803535!2d35.008014609890154!3d-15.787556097412658!3m2!1i1024!2i768!4f13.1!5e1!3m2!1sen!2smw!4v1719684889693!5m2!1sen!2smw"
         width="600" height="450" style="border:0;" allowfullscreen="" loading="lazy"
         referrerpolicy="no-referrer-when-downgrade">
-        Blantyre CBD
     </iframe>
     <footer>
         <p>&copy; 2024 Moffat Katopola</p>

diff --git a/week01/chamber-site-plan.html b/week01/chamber-site-plan.html
@@ -76,7 +76,7 @@
                 <li><strong>Accent Color:</strong> #f4f4f4 (Light Gray)</li>
                 <li><strong>Text Color:</strong> #333333 (Dark Gray)</li>
             </ul>
-            <img class="colors" src="images/colors.jpeg" alt="color Scheme">
+            <img class="colors" src="images/colors.webp" alt="color Scheme">
         </section>
 
         <section>
@@ -88,9 +88,9 @@
         <section>
             <h2>Wireframe</h2>
             <p>Web View</p>
-            <img src="images/web-view.png" height="600px" alt="Web View">
+            <img src="images/web-view.webp" height="600px" alt="Web View">
             <p>Mobile View</p>
-            <img src="images/mobile-view.png" alt="Mobile View">
+            <img src="images/mobile-view.webp" alt="Mobile View">
         </section>
     </main>
 
